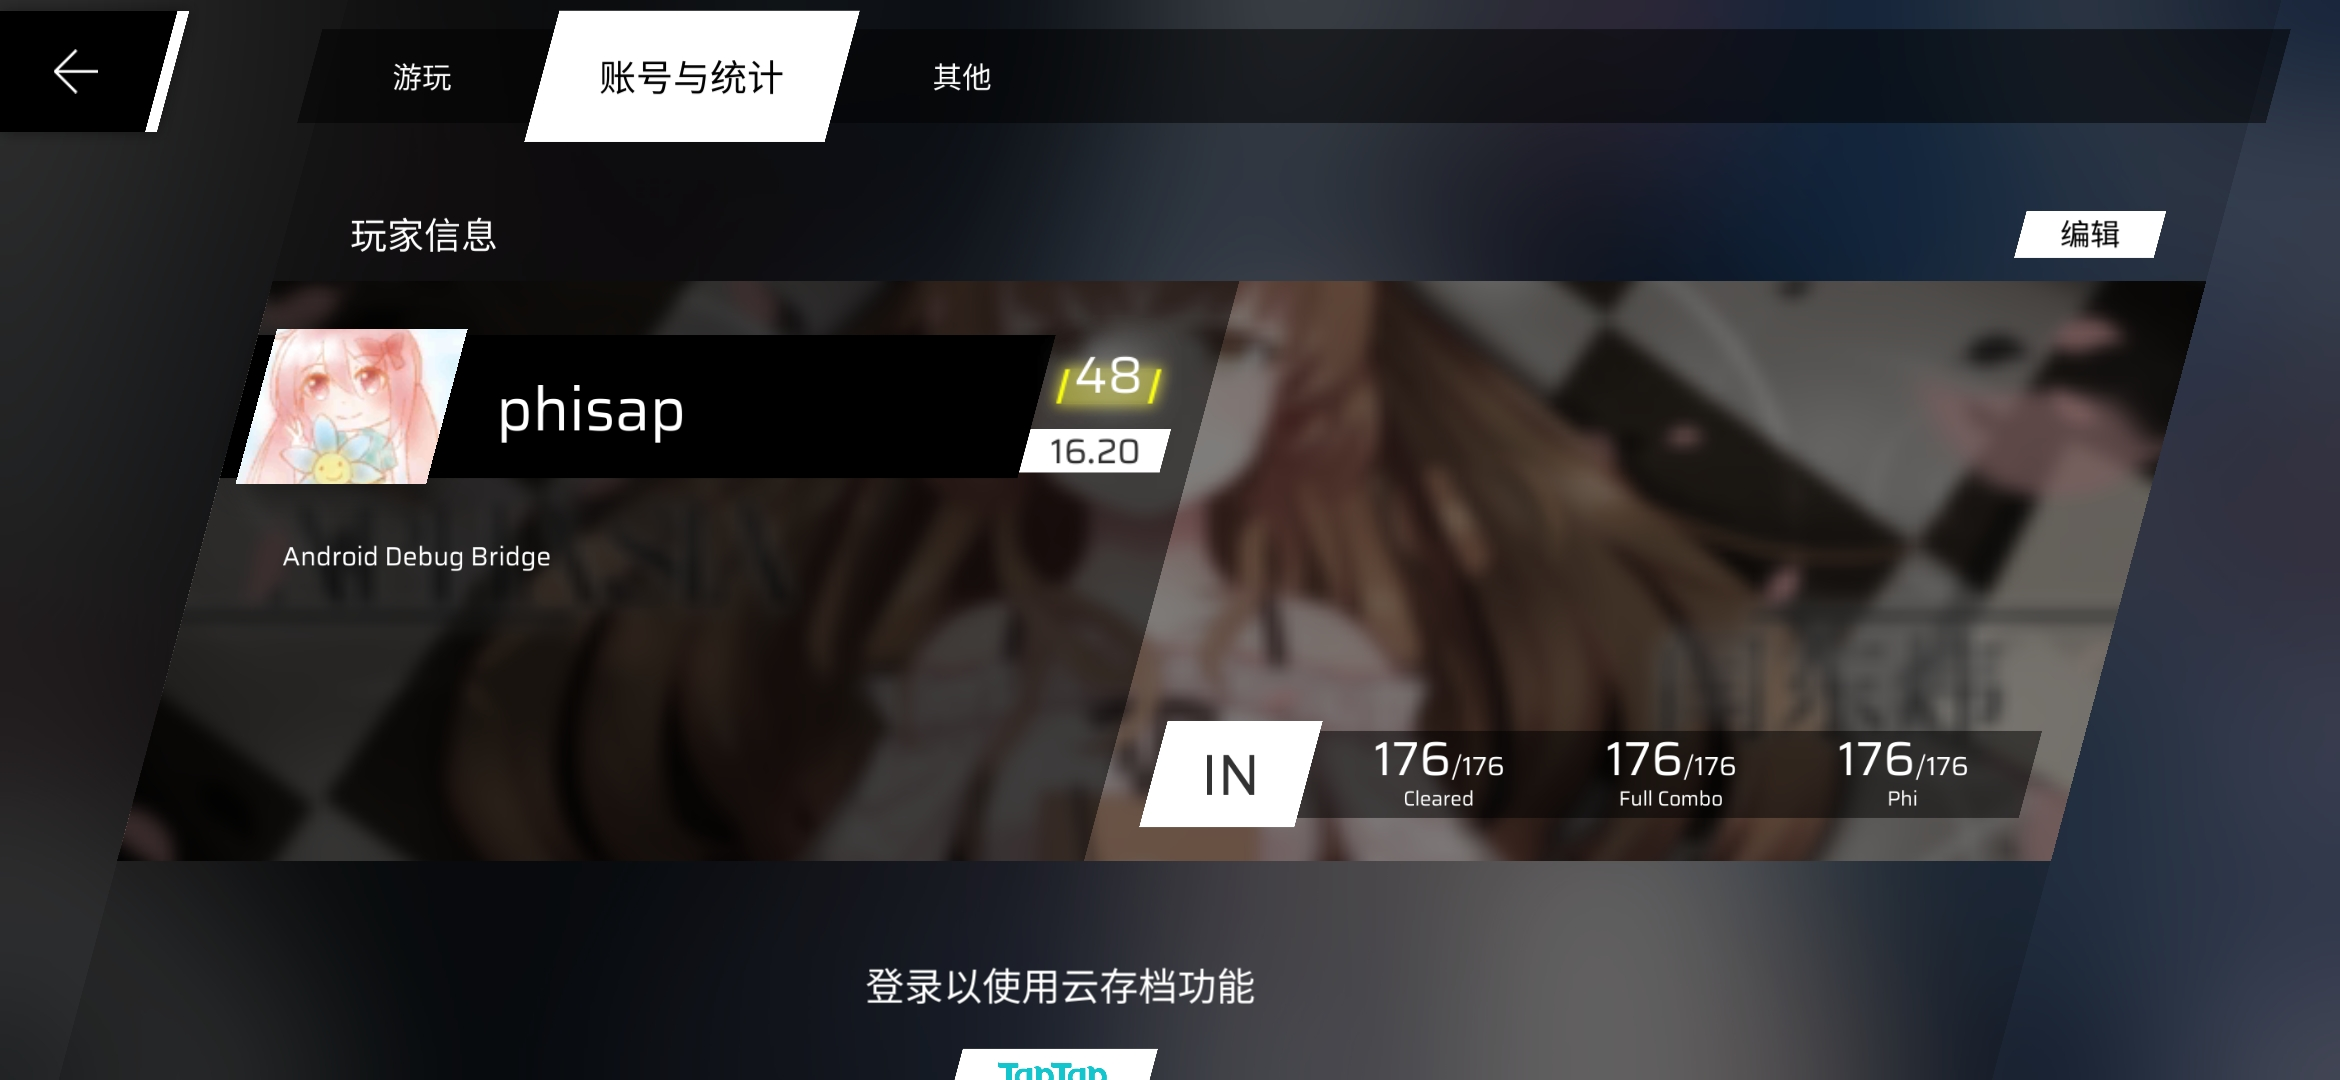
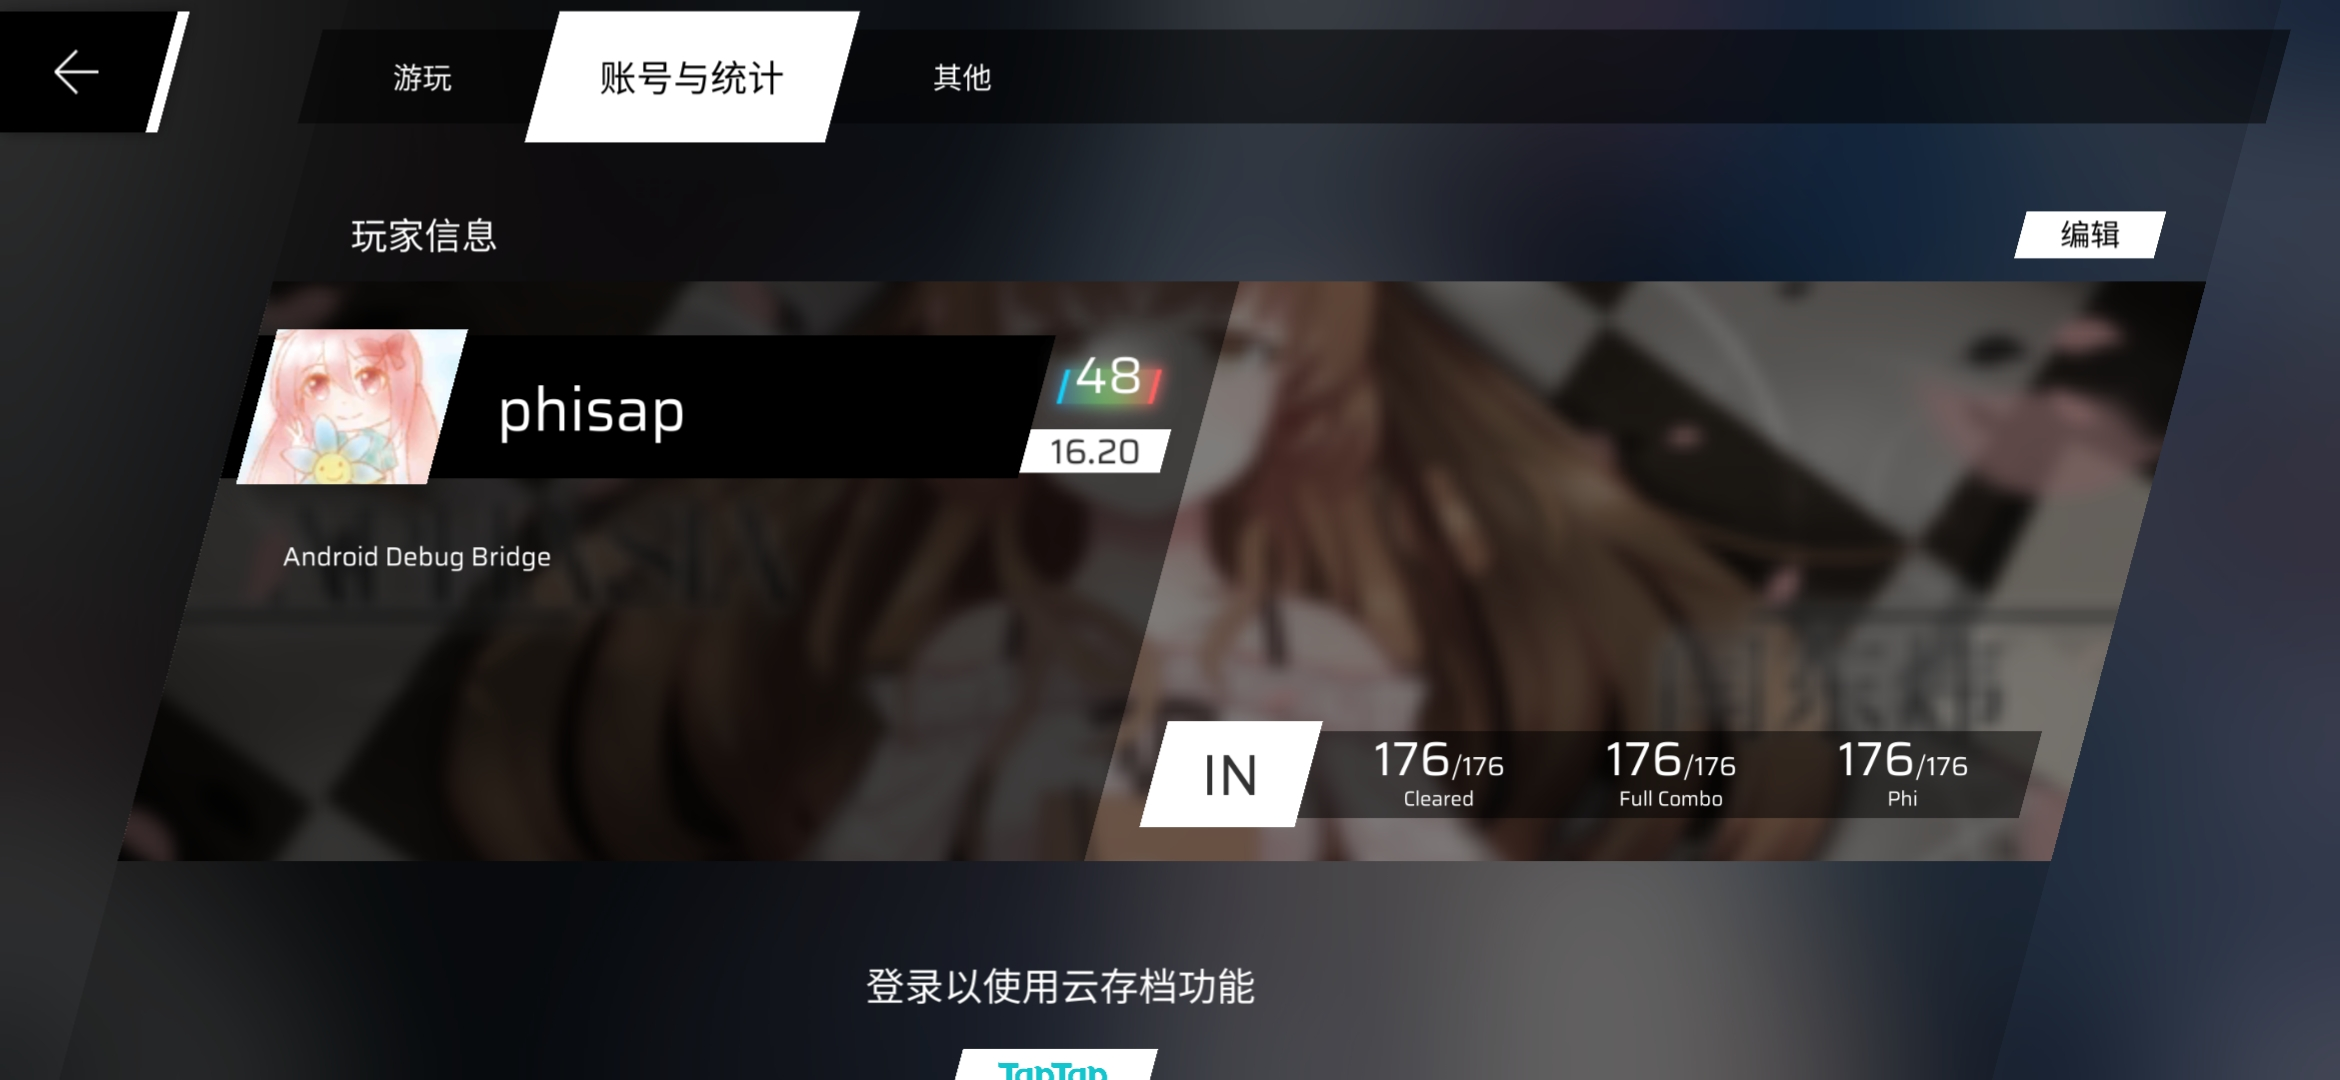
彩48

diff --git a/README.md b/README.md
@@ -69,6 +69,33 @@ PS: 如果你知道怎样实现不root的前提下精确获知当前曲目进度
 
 这些玩意太逆天了，不在phisap的全p目标范围内。phisap作者并不会针对愚人节谱面进行规划算法的改进
 
+## 课题模式
+phisap并没有对课题模式做特殊的支持，将来也许会有
+
+不过现有的功能完全可以使你拿到彩48标签，但是需要一点点技巧
+
+我推荐的配置是
++ 迷宫莉莉丝 (AT16)
++ 狂喜兰舞 (AT16)
++ DESTRUCTION 3,2,1 (AT16)
+
+也就是下面这三个，顺序任意
+![推荐彩48配置](./screenshots/phone-shot3.jpg)
+这三个谱面的特点是开局没有过分的判定线演出，便于手动同步定时器，同时相比于其他AT16，这三个谱面在课题模式下也算是判定比较宽松的
+
+然后按照如下步骤操作phisap
+1. 使用algo1规划这三个谱面（注意难度选AT）
+    + 计时器同步方式选手动同步，选定曲目ID和难度之后点开始，按钮变成“开始操作”后关掉phisap，再打开，重复这一步骤
+        + 这个操作逻辑确实有点蠢，不过新UI正在设计了（
+2. 同步方式选手动，曲目ID选择第一首的，难度选AT，规划算法选不规划，然后点开始
+3. 在游戏设备上设置课题模式并开始
+4. 看着游戏设备，在note快落到判定线时点击“开始操作”按钮或者按下空格键
+5. 观察note被击打时相对判定线的位置，调整“微调”，确保note在击打时跟判定线重合
+    + 如果你开局就蓝线了那也就甭微调了，直接重开罢
+6. 在phisap自动游玩当前谱面时，调整曲目ID为下一首的曲目ID
+7. 在phisap的按钮重新变回“开始”/看到控制台输出“打歌完毕”后，点击“开始”按钮。此时你的游戏设备应该还在加载下一首曲目
+8. 为剩下两首曲目重复步骤4到7
+9. 如果运气好的话，你应该能得到一个彩48
 
 ## 如果你在使用过程中遇到了问题，请开issue
 **请在issue中包含如下内容**
